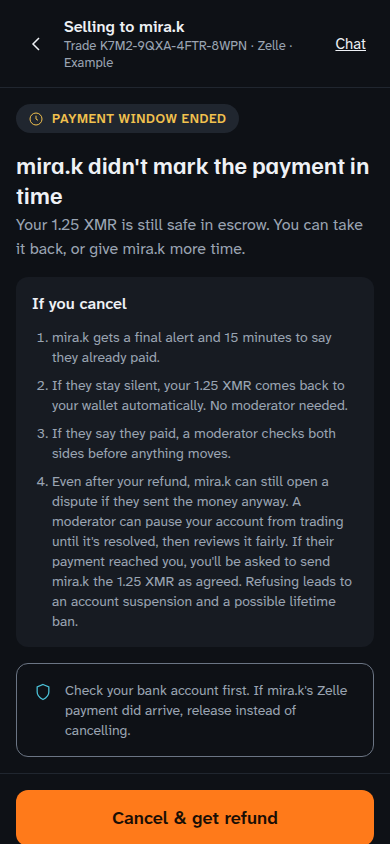
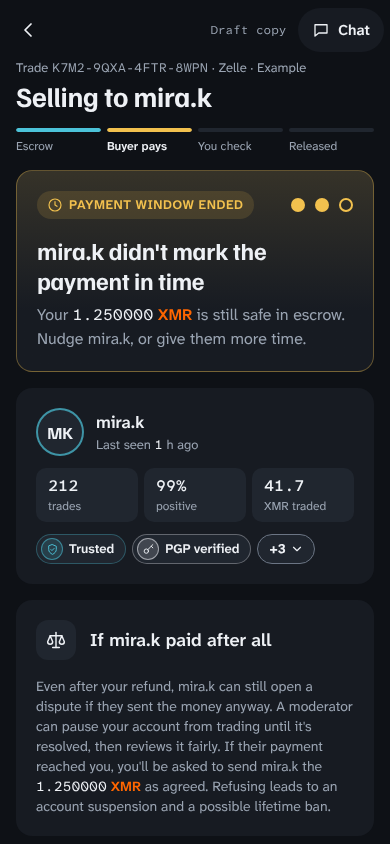
READY: SellerRefund board and parity reference refreshed for G2
design/x2f-app/SellerRefund.dc.html is the canvas board: Nudge first,
Cancel locked until 90 min and at least one nudge, nudges every 15 min
with no cap, no FinalAlert steps. "Goes straight back" left out: the
buyer's 15-minute final alert stays until the owner rules (lead, 8 Nov).
refs/SellerRefund.png re-captured with tools/parity/capture-refs.ts.
CancelRequest has no repo copy, so nothing to refresh there.

Claude-Session: https://claude.ai/code/session_01XZAz2tn1YbpoyEtNYuAJim

diff --git a/design/x2f-app/SellerRefund.dc.html b/design/x2f-app/SellerRefund.dc.html
@@ -11,66 +11,136 @@
 <link rel="stylesheet" href="https://fonts.googleapis.com/css2?family=Familjen+Grotesk:wght@600;700&amp;family=Atkinson+Hyperlegible+Next:wght@400;600&amp;family=Atkinson+Hyperlegible+Mono:wght@400;500&amp;display=swap">
 <style>
 body{margin:0}
-a{color:#ff7a1a}a:hover{color:#ffa060}
-button:focus-visible,a:focus-visible{outline:2px solid #eef1f5;outline-offset:2px}
+a{color:var(--monero-ink)}a:hover{color:var(--ink)}
+button:focus-visible,a:focus-visible{outline:2px solid var(--ink);outline-offset:2px}
+button,a,label{transition:background-color 150ms ease-out,border-color 150ms ease-out,color 150ms ease-out}
+@media (prefers-reduced-motion: reduce){*{transition:none !important;animation:none !important}}
 </style>
 </helmet>
-<div style="width: 390px; height: 844px; box-sizing: border-box; background: #0e1116; color: #eef1f5; font-family: 'Atkinson Hyperlegible Next', system-ui, sans-serif; display: flex; flex-direction: column;">
-  <header style="display: flex; align-items: center; gap: 8px; padding: 16px; border-bottom: 1px solid #20262f;">
-    <a href="#" aria-label="Back to trades" style="display: flex; width: 44px; height: 44px; align-items: center; justify-content: center; color: #eef1f5;">
-      <svg width="24" height="24" viewBox="0 0 24 24" fill="none" stroke="currentColor" stroke-width="1.5" aria-hidden="true"><path d="M15 18l-6-6 6-6"/></svg>
-    </a>
-    <div style="display: flex; flex-direction: column; flex-grow: 1;">
-      <span style="font-size: 16px; font-weight: 600;">Selling to mira.k</span>
-      <span style="font-size: 13px; color: #9aa4b2;">Trade K7M2-9QXA-4FTR-8WPN · Zelle · Example</span>
+<div style="{{rootStyle}}">
+  <div style="{{appStyle}}">
+  <header style="display: flex; flex-direction: column; padding: 8px 16px 16px;">
+    <div style="display: flex; align-items: center; justify-content: space-between; height: 44px; margin: 0 -10px;">
+      <a href="#" aria-label="Back to trades" style="display: flex; width: 44px; height: 44px; align-items: center; justify-content: center; border-radius: 12px; color: var(--ink);">
+        <svg width="24" height="24" viewBox="0 0 24 24" fill="none" stroke="currentColor" stroke-width="1.75" stroke-linecap="round" stroke-linejoin="round" aria-hidden="true"><path d="M15 18l-6-6 6-6"/></svg>
+      </a>
+      <span style="margin-left: auto; margin-right: 12px; white-space: nowrap; font-family: 'Atkinson Hyperlegible Mono', monospace; font-size: 12px; line-height: 16px; color: var(--ink-muted);">Draft copy</span>
+      <a href="#" style="display: inline-flex; align-items: center; gap: 8px; height: 44px; padding: 0 14px; border-radius: 999px; background: var(--surface); color: var(--ink); font-size: 15px; font-weight: 600; text-decoration: none;">
+        <svg width="18" height="18" viewBox="0 0 24 24" fill="none" stroke="currentColor" stroke-width="1.75" stroke-linecap="round" stroke-linejoin="round" aria-hidden="true"><path d="M4 5h16v11H9l-5 4z"/></svg>
+        Chat
+      </a>
     </div>
-    <a href="#" style="display: flex; height: 44px; align-items: center; padding: 0 8px; font-size: 15px; color: #eef1f5;">Chat</a>
+    <span style="margin-top: 8px; font-size: 13px; line-height: 16px; color: var(--ink-muted);">Trade <span style="font-family: 'Atkinson Hyperlegible Mono', monospace; white-space: nowrap;">K7M2-9QXA-4FTR-8WPN</span> · Zelle · Example</span>
+    <h1 style="margin: 4px 0 0; font-family: 'Familjen Grotesk', sans-serif; font-size: 28px; line-height: 32px; font-weight: 700; letter-spacing: -0.01em;">Selling to mira.k</h1>
   </header>
 
-  <main style="display: flex; flex-direction: column; gap: 16px; padding: 16px; flex-grow: 1;">
-    <div>
-      <span style="display: inline-flex; align-items: center; gap: 8px; padding: 6px 12px; border-radius: 999px; background: #20262f; color: #f2c14e; font-size: 13px; font-weight: 600; letter-spacing: 0.04em; text-transform: uppercase;">
-        <svg width="16" height="16" viewBox="0 0 24 24" fill="none" stroke="currentColor" stroke-width="1.5" aria-hidden="true"><circle cx="12" cy="12" r="9"/><path d="M12 7v5l3 2"/></svg>
-        Payment window ended
-      </span>
+  <ol aria-label="Trade progress" style="display: grid; grid-template-columns: repeat(4, 1fr); gap: 6px; margin: 0; padding: 0 16px 16px; list-style: none;">
+    <sc-for list="{{steps}}" as="s" hint-placeholder-count="4">
+      <li aria-current="{{s.current}}" style="display: flex; flex-direction: column; gap: 6px;">
+        <span style="display: block; height: 4px; border-radius: 999px; background: var(--surface-raised); overflow: hidden;"><span style="{{s.barStyle}}"></span></span>
+        <span style="{{s.labelStyle}}">{{s.label}}</span>
+      </li>
+    </sc-for>
+  </ol>
+
+  <main style="display: flex; flex-direction: column; gap: 16px; padding: 0 16px 24px; flex-grow: 1;">
+    <section aria-labelledby="sr-title" style="display: flex; flex-direction: column; gap: 16px; padding: 20px; border-radius: 16px; background: linear-gradient(180deg, color-mix(in srgb, var(--caution) 14%, var(--surface)) 0%, var(--surface) 140px); border: 1px solid color-mix(in srgb, var(--caution) 35%, transparent);">
+      <div style="display: flex; align-items: center; justify-content: space-between; gap: 8px;">
+        <span style="display: inline-flex; align-items: center; gap: 6px; height: 28px; padding: 0 10px; border-radius: 999px; background: color-mix(in srgb, var(--caution) 14%, transparent); color: var(--caution); font-size: 13px; line-height: 16px; font-weight: 600; letter-spacing: 0.04em; text-transform: uppercase;">
+          <svg width="16" height="16" viewBox="0 0 24 24" fill="none" stroke="currentColor" stroke-width="1.75" stroke-linecap="round" stroke-linejoin="round" aria-hidden="true"><circle cx="12" cy="12" r="9"/><path d="M12 7v5l3 2"/></svg>
+          Payment window ended
+        </span>
+        <svg style="flex-shrink: 0; color: var(--caution);" width="62" height="14" viewBox="0 0 62 14" aria-hidden="true"><circle cx="7" cy="7" r="7" fill="currentColor"/><circle cx="31" cy="7" r="7" fill="currentColor"/><circle cx="55" cy="7" r="6" fill="none" stroke="currentColor" stroke-width="2"/></svg>
+      </div>
+      <div style="display: flex; flex-direction: column; gap: 8px;">
+        <h2 id="sr-title" style="margin: 0; font-family: 'Familjen Grotesk', sans-serif; font-size: 24px; line-height: 30px; font-weight: 700; letter-spacing: -0.01em;">mira.k didn't mark the payment in time</h2>
+        <p style="margin: 0; font-size: 16px; line-height: 24px; color: var(--ink-muted);">Your <span style="font-family: 'Atkinson Hyperlegible Mono', monospace; color: var(--ink);">1.250000</span> <span style="font-weight: 600; color: var(--monero-ink);">XMR</span> is still safe in escrow. {{heroNext}}</p>
+      </div>
+    </section>
+
+    <section aria-label="Buyer" style="display: flex; flex-direction: column; padding: 20px; border-radius: 16px; background: var(--surface);"><div style="display: flex; flex-direction: column; gap: 12px;"><div style="display: flex; align-items: center; gap: 12px;"><span style="position: relative; display: flex; flex-shrink: 0; width: 48px; height: 48px; box-sizing: border-box; align-items: center; justify-content: center; border-radius: 999px; background: var(--surface-raised); border: 2px solid color-mix(in srgb, var(--escrow) 70%, transparent); font-family: 'Familjen Grotesk', sans-serif; font-size: 17px; font-weight: 700; letter-spacing: -0.01em;">MK</span><span style="display: flex; flex-direction: column; gap: 3px; min-width: 0;"><span style="display: flex; align-items: center; gap: 8px;"><span style="font-size: 17px; line-height: 22px; font-weight: 600;">mira.k</span></span><span style="font-size: 13px; line-height: 18px; color: var(--ink-muted);">Last seen <span style="font-family: 'Atkinson Hyperlegible Mono', monospace; color: var(--ink);">1</span> h ago</span></span></div><div style="display: grid; grid-template-columns: repeat(3, 1fr); gap: 6px;"><span style="display: flex; flex-direction: column; gap: 2px; padding: 8px 12px; border-radius: 10px; background: var(--surface-raised); min-width: 0;"><span style="font-family: 'Atkinson Hyperlegible Mono', monospace; font-size: 16px; line-height: 20px; font-weight: 500;">212</span><span style="font-size: 12px; line-height: 16px; color: var(--ink-muted);">trades</span></span><span style="display: flex; flex-direction: column; gap: 2px; padding: 8px 12px; border-radius: 10px; background: var(--surface-raised); min-width: 0;"><span style="font-family: 'Atkinson Hyperlegible Mono', monospace; font-size: 16px; line-height: 20px; font-weight: 500;">99%</span><span style="font-size: 12px; line-height: 16px; color: var(--ink-muted);">positive</span></span><span style="display: flex; flex-direction: column; gap: 2px; padding: 8px 12px; border-radius: 10px; background: var(--surface-raised); min-width: 0;"><span style="font-family: 'Atkinson Hyperlegible Mono', monospace; font-size: 16px; line-height: 20px; font-weight: 500;">41.7</span><span style="font-size: 12px; line-height: 16px; color: var(--ink-muted);">XMR traded</span></span></div><div style="display: flex; flex-wrap: wrap; gap: 6px; align-items: center;"><button type="button" aria-haspopup="dialog" aria-label="Trusted badge: 200+ trades and 98%+ positive." style="display: inline-flex; align-items: center; height: 44px; margin: -7px 0; padding: 0; border: 0; background: transparent; color: inherit; font: inherit; cursor: pointer;"><span style="display: inline-flex; align-items: center; gap: 6px; height: 30px; padding: 0 11px 0 4px; box-sizing: border-box; border-radius: 999px; background: var(--surface-raised); border: 1px solid color-mix(in srgb, var(--escrow) 32%, transparent); font-size: 13px; line-height: 16px; font-weight: 600; color: var(--ink); white-space: nowrap;"><span aria-hidden="true" style="display: flex; flex-shrink: 0; width: 22px; height: 22px; box-sizing: border-box; align-items: center; justify-content: center; border-radius: 999px; background: color-mix(in srgb, var(--escrow) 16%, var(--surface-raised)); border: 1px solid color-mix(in srgb, var(--escrow) 55%, transparent); color: var(--escrow);"><svg width="13" height="13" viewBox="0 0 24 24" fill="none" stroke="currentColor" stroke-width="1.75" stroke-linecap="round" stroke-linejoin="round" aria-hidden="true"><path d="M12 3l7 3v6c0 4-3 7-7 9-4-2-7-5-7-9V6z"/><path d="M9 12l2 2 4-4"/></svg></span>Trusted</span></button><button type="button" aria-haspopup="dialog" aria-label="PGP verified badge: Logs in with a verified PGP key." style="display: inline-flex; align-items: center; height: 44px; margin: -7px 0; padding: 0; border: 0; background: transparent; color: inherit; font: inherit; cursor: pointer;"><span style="display: inline-flex; align-items: center; gap: 6px; height: 30px; padding: 0 11px 0 4px; box-sizing: border-box; border-radius: 999px; background: var(--surface-raised); border: 1px solid color-mix(in srgb, var(--ink) 32%, transparent); font-size: 13px; line-height: 16px; font-weight: 600; color: var(--ink); white-space: nowrap;"><span aria-hidden="true" style="display: flex; flex-shrink: 0; width: 22px; height: 22px; box-sizing: border-box; align-items: center; justify-content: center; border-radius: 999px; background: color-mix(in srgb, var(--ink) 16%, var(--surface-raised)); border: 1px solid color-mix(in srgb, var(--ink) 55%, transparent); color: var(--ink);"><svg width="13" height="13" viewBox="0 0 24 24" fill="none" stroke="currentColor" stroke-width="1.75" stroke-linecap="round" stroke-linejoin="round" aria-hidden="true"><circle cx="8" cy="15" r="4"/><path d="M11 12l9-9"/><path d="M17 6l3 3"/></svg></span>PGP verified</span></button><button type="button" aria-haspopup="dialog" aria-expanded="false" aria-label="3 more badges" style="display: inline-flex; align-items: center; height: 44px; margin: -7px 0; padding: 0; border: 0; background: transparent; color: inherit; font: inherit; cursor: pointer;"><span style="display: inline-flex; align-items: center; gap: 4px; height: 30px; padding: 0 10px 0 11px; box-sizing: border-box; border-radius: 999px; border: 1px solid var(--line); background: var(--surface-raised); color: var(--ink); font-size: 13px; line-height: 16px; font-weight: 600;"><span style="font-family: 'Atkinson Hyperlegible Mono', monospace;">+3</span><svg width="14" height="14" viewBox="0 0 24 24" fill="none" stroke="currentColor" stroke-width="2" stroke-linecap="round" stroke-linejoin="round" aria-hidden="true"><path d="M6 9l6 6 6-6"/></svg></span></button></div></div></section>
+
+    <section aria-labelledby="sr-how" style="display: flex; flex-direction: column; gap: 16px; padding: 20px; border-radius: 16px; background: var(--surface);">
+      <div style="display: flex; align-items: center; gap: 14px;"><span style="display: flex; flex-shrink: 0; width: 40px; height: 40px; align-items: center; justify-content: center; border-radius: 12px; background: var(--surface-raised); color: var(--ink);"><svg width="20" height="20" viewBox="0 0 24 24" fill="none" stroke="currentColor" stroke-width="1.75" stroke-linecap="round" stroke-linejoin="round" aria-hidden="true"><path d="M12 3v18"/><path d="M5 7h14"/><path d="M5 7l-3 7a3 3 0 006 0z"/><path d="M19 7l-3 7a3 3 0 006 0z"/><path d="M8 21h8"/></svg></span><h2 id="sr-how" style="margin: 0; font-size: 18px; line-height: 24px; font-weight: 600;">If mira.k paid after all</h2></div>
+      <p style="margin: 0; font-size: 14px; line-height: 20px; color: var(--ink-muted);">Even after your refund, mira.k can still open a dispute if they sent the money anyway. A moderator can pause your account from trading until it's resolved, then reviews it fairly. If their payment reached you, you'll be asked to send mira.k the <span style="font-family: 'Atkinson Hyperlegible Mono', monospace; color: var(--ink);">1.250000</span> <span style="font-weight: 600; color: var(--monero-ink);">XMR</span> as agreed. Refusing leads to an account suspension and a possible lifetime ban.</p>
+    </section>
+
+    <div style="display: flex; gap: 10px; align-items: flex-start; padding: 12px 14px; border-radius: 12px; background: color-mix(in srgb, var(--escrow) 10%, var(--surface)); border: 1px solid color-mix(in srgb, var(--escrow) 30%, transparent);">
+      <svg style="flex-shrink: 0; margin-top: 1px; color: var(--escrow);" width="18" height="18" viewBox="0 0 24 24" fill="none" stroke="currentColor" stroke-width="1.75" stroke-linecap="round" stroke-linejoin="round" aria-hidden="true"><path d="M12 3l7 3v6c0 4-3 7-7 9-4-2-7-5-7-9V6z"/></svg>
+      <p style="margin: 0; font-size: 14px; line-height: 20px; color: var(--ink);">Check your bank account first. If mira.k's Zelle payment did arrive, release instead of cancelling.</p>
     </div>
-
-    <section style="display: flex; flex-direction: column; gap: 4px;">
-      <h1 style="margin: 0; font-family: 'Familjen Grotesk', sans-serif; font-size: 24px; line-height: 30px; font-weight: 600;">mira.k didn't mark the payment in time</h1>
-      <p style="margin: 0; font-size: 16px; line-height: 24px; color: #9aa4b2;">Your 1.25 XMR is still safe in escrow. You can take it back, or give mira.k more time.</p>
-    </section>
-
-    <section aria-label="How the refund works" style="display: flex; flex-direction: column; gap: 12px; padding: 16px; border-radius: 12px; background: #171b22;">
-      <h2 style="margin: 0; font-size: 16px; line-height: 22px; font-weight: 600;">If you cancel</h2>
-      <ol style="margin: 0; padding-left: 20px; display: flex; flex-direction: column; gap: 8px; font-size: 14px; line-height: 20px; color: #9aa4b2;">
-        <li>mira.k gets a final alert and 15 minutes to say they already paid.</li>
-        <li>If they stay silent, your 1.25 XMR comes back to your wallet automatically. No moderator needed.</li>
-        <li>If they say they paid, a moderator checks both sides before anything moves.</li>
-        <li>Even after your refund, mira.k can still open a dispute if they sent the money anyway. A moderator can pause your account from trading until it's resolved, then reviews it fairly. If their payment reached you, you'll be asked to send mira.k the 1.25 XMR as agreed. Refusing leads to an account suspension and a possible lifetime ban.</li>
-      </ol>
-    </section>
-
-    <section style="display: flex; gap: 12px; align-items: flex-start; padding: 16px; border-radius: 12px; border: 1px solid #6b7584;">
-      <svg width="20" height="20" viewBox="0 0 24 24" fill="none" stroke="#4cc3d9" stroke-width="1.5" aria-hidden="true" style="flex-shrink: 0; margin-top: 2px;"><path d="M12 3l7 3v6c0 4-3 7-7 9-4-2-7-5-7-9V6z"/></svg>
-      <p style="margin: 0; font-size: 14px; line-height: 20px; color: #9aa4b2;">Check your bank account first. If mira.k's Zelle payment did arrive, release instead of cancelling.</p>
-    </section>
   </main>
 
-  <footer style="display: flex; flex-direction: column; gap: 8px; padding: 16px; border-top: 1px solid #20262f;">
-    <button type="button" style="height: 56px; border: 0; border-radius: 12px; background: #ff7a1a; color: #1a0e05; font-family: inherit; font-size: 18px; font-weight: 600; cursor: pointer;">Cancel &amp; get refund</button>
-    <div style="display: flex; gap: 8px;">
-      <button type="button" style="flex-grow: 1; height: 48px; border: 1px solid #6b7584; border-radius: 12px; background: transparent; color: #eef1f5; font-family: inherit; font-size: 16px; cursor: pointer;">Give 30 more min</button>
-      <button type="button" style="flex-grow: 1; display: flex; align-items: center; justify-content: center; gap: 8px; height: 48px; border: 1px solid #6b7584; border-radius: 12px; background: transparent; color: #f2c14e; font-family: inherit; font-size: 16px; cursor: pointer;">
-        <svg width="20" height="20" viewBox="0 0 24 24" fill="none" stroke="currentColor" stroke-width="1.5" aria-hidden="true"><path d="M6 8a6 6 0 0112 0c0 7 3 9 3 9H3s3-2 3-9"/><path d="M10.3 21a1.94 1.94 0 003.4 0"/><path d="M2 4l2 2"/><path d="M22 4l-2 2"/></svg>
+  <footer style="display: flex; flex-direction: column; gap: 8px; padding: 16px 16px 8px; border-top: 1px solid var(--surface-raised); background: var(--ground);">
+    <sc-if value="{{locked}}" hint-placeholder-val="{{true}}">
+      <button type="button" style="display: flex; align-items: center; justify-content: center; gap: 8px; height: 56px; border: 0; border-radius: 12px; background: var(--monero); color: var(--on-monero); font-family: inherit; font-size: 18px; font-weight: 600; cursor: pointer;">
+        <svg style="color: currentColor;" width="20" height="20" viewBox="0 0 24 24" fill="none" stroke="currentColor" stroke-width="1.75" stroke-linecap="round" stroke-linejoin="round" aria-hidden="true"><path d="M6 8a6 6 0 0112 0c0 7 3 9 3 9H3s3-2 3-9"/><path d="M10.3 21a1.94 1.94 0 003.4 0"/><path d="M2 4l2 2"/><path d="M22 4l-2 2"/></svg>
         Nudge mira.k
       </button>
-    </div>
+      <button type="button" style="display: flex; align-items: center; justify-content: center; gap: 8px; height: 48px; border: 1px solid var(--line); border-radius: 12px; background: transparent; color: var(--ink); font-family: inherit; font-size: 16px; font-weight: 600; cursor: pointer;">Give <span style="font-family: 'Atkinson Hyperlegible Mono', monospace; font-weight: 500;">30</span> more min</button>
+      <p style="margin: 0; padding: 0 8px 8px; font-size: 13px; line-height: 18px; color: var(--ink-muted); text-align: center;">No word from mira.k? After <span style="font-family: 'Atkinson Hyperlegible Mono', monospace; color: var(--ink);">90</span> min and at least one nudge, you can cancel and get your <span style="font-family: 'Atkinson Hyperlegible Mono', monospace; color: var(--ink);">1.250000</span> <span style="font-weight: 600; color: var(--monero-ink);">XMR</span> back.</p>
+    </sc-if>
+    <sc-if value="{{available}}" hint-placeholder-val="{{false}}">
+      <button type="button" style="display: flex; align-items: center; justify-content: center; gap: 8px; height: 56px; border: 0; border-radius: 12px; background: var(--monero); color: var(--on-monero); font-family: inherit; font-size: 18px; font-weight: 600; cursor: pointer;">Cancel and get refund</button>
+      <div style="display: flex; gap: 8px;">
+        <button type="button" style="flex: 1 1 0; display: flex; align-items: center; justify-content: center; gap: 8px; height: 48px; border: 1px solid var(--line); border-radius: 12px; background: transparent; color: var(--ink); font-family: inherit; font-size: 16px; font-weight: 600; cursor: pointer;">Give <span style="font-family: 'Atkinson Hyperlegible Mono', monospace; font-weight: 500;">30</span> more min</button>
+        <button type="button" style="flex: 1 1 0; display: flex; align-items: center; justify-content: center; gap: 8px; height: 48px; border: 1px solid var(--line); border-radius: 12px; background: transparent; color: var(--ink); font-family: inherit; font-size: 16px; font-weight: 600; cursor: pointer;">
+          <svg style="color: var(--caution);" width="20" height="20" viewBox="0 0 24 24" fill="none" stroke="currentColor" stroke-width="1.75" stroke-linecap="round" stroke-linejoin="round" aria-hidden="true"><path d="M6 8a6 6 0 0112 0c0 7 3 9 3 9H3s3-2 3-9"/><path d="M10.3 21a1.94 1.94 0 003.4 0"/><path d="M2 4l2 2"/><path d="M22 4l-2 2"/></svg>
+          Nudge again
+        </button>
+      </div>
+      <p style="margin: 0; padding: 0 8px 8px; font-size: 13px; line-height: 18px; color: var(--ink-muted); text-align: center;">You can nudge again every <span style="font-family: 'Atkinson Hyperlegible Mono', monospace; color: var(--ink);">15</span> min, as often as you need. You can cancel now and get your <span style="font-family: 'Atkinson Hyperlegible Mono', monospace; color: var(--ink);">1.250000</span> <span style="font-weight: 600; color: var(--monero-ink);">XMR</span> back.</p>
+    </sc-if>
   </footer>
+  </div>
+
+  <section aria-label="Design notes" style="flex-shrink: 0; display: flex; flex-direction: column; gap: 12px; padding: 24px 16px; border-top: 1px solid var(--line);">
+    <h2 style="margin: 0; font-family: 'Atkinson Hyperlegible Mono', monospace; font-size: 12px; line-height: 16px; font-weight: 500; letter-spacing: 0.04em; text-transform: uppercase; color: var(--ink-muted);">Design notes</h2>
+    <p style="margin: 0; font-size: 13px; line-height: 18px; color: var(--ink-muted);">The seller&#39;s screen when mira.k hasn&#39;t marked the payment. Until Cancel unlocks, Nudge is the one orange action; once it unlocks, Cancel takes over. Preview both with the cancel tweak. Showing: {{cancelName}}</p>
+    <aside aria-label="Decided by the owner: who can cancel, and when" style="display: flex; flex-direction: column; gap: 6px; padding: 10px 12px; border-radius: 6px; border: 1px solid var(--line); font-size: 13px; line-height: 18px; color: var(--ink);">
+      <span style="font-family: 'Atkinson Hyperlegible Mono', monospace; font-size: 12px; line-height: 16px; font-weight: 500; letter-spacing: 0.04em; text-transform: uppercase; color: var(--ink-muted);">Decided · owner, 7 Nov (G2)</span>
+      <span style="font-weight: 600;">Who can cancel, and when</span>
+      <ul style="margin: 0; padding-left: 18px; display: flex; flex-direction: column; gap: 2px;">
+        <li>Before escrow is funded: either side can cancel at once, no reason needed.</li>
+        <li>Seller, after escrow, if the buyer hasn&#39;t been in touch: after <span style="font-family: 'Atkinson Hyperlegible Mono', monospace;">90</span> min and at least one nudge, a Cancel button appears and the escrowed XMR goes back to the seller&#39;s wallet.</li>
+        <li>Buyer, after escrow: can cancel. That triggers a full refund to the seller, and the trade stays open until the refund has all <span style="font-family: 'Atkinson Hyperlegible Mono', monospace;">10</span> confirmations.</li>
+      </ul>
+      <span style="color: var(--ink-muted);">This board is rule (b). Structure changed: Cancel was the primary as soon as the payment window ended, and cancelling first gave mira.k a final alert and <span style="font-family: 'Atkinson Hyperlegible Mono', monospace;">15</span> min to answer, with a moderator check if they said they paid. Now Cancel is locked until at least one nudge. Open (lead, 8 Nov): the buyer&#39;s 15-minute final alert after the seller cancels stays until the owner rules, so the board does not say the XMR goes straight back. The old steps 2 and 3 are gone; the late-dispute step stays as &quot;If mira.k paid after all&quot;. Buyer cancel (c) is on CancelRequest.</span>
+    </aside>
+  </section>
 </div>
 </x-dc>
-<script type="text/x-dc" data-dc-script data-props='{"$preview":{"width":390,"height":844}}'>
+<script type="text/x-dc" data-dc-script data-props='{"theme":{"editor":"enum","options":["night","day"],"default":"night"},"cancel":{"editor":"enum","options":["locked","available"],"default":"locked"},"$preview":{"width":390,"height":1732}}'>
 class Component extends DCLogic {
-  renderVals() { return {}; }
+  renderVals() {
+    const THEMES = {
+      night: '--ground:#0e1116;--surface:#171b22;--surface-raised:#20262f;--line:#6b7584;--ink:#eef1f5;--ink-muted:#9aa4b2;--monero:#ff6600;--monero-ink:#ff6600;--on-monero:#1a0e05;--escrow:#4cc3d9;--caution:#f2c14e;--danger:#ff6b8a;--scrim:rgba(0,0,0,0.6);--mod:#b69cff;--team:#7aa2ff;',
+      day: '--ground:#f5f6f8;--surface:#ffffff;--surface-raised:#eceef2;--line:#7a8494;--ink:#12161c;--ink-muted:#566070;--monero:#ff6600;--monero-ink:#b84a00;--on-monero:#1a0e05;--escrow:#0b7285;--caution:#8a5a00;--danger:#c2255c;--scrim:rgba(18,22,28,0.45);--mod:#6741d9;--team:#2f5bd3;'
+    };
+    const theme = this.props.theme === 'day' ? 'day' : 'night';
+    const available = this.props.cancel === 'available';
+    // Measured (night, fonts loaded): app screen per cancel state, plus the design notes under it.
+    const APP_H = available ? 1175 : 1151;
+    const NOTES_H = 581;
+    const H = APP_H + NOTES_H;
+    const appStyle = 'position: relative; flex-shrink: 0; height: ' + APP_H + 'px; display: flex; flex-direction: column;';
+    const rootStyle = THEMES[theme] + 'position: relative; overflow: hidden; width: 390px; height: ' + H + "px; box-sizing: border-box; background: var(--ground); color: var(--ink); font-family: 'Atkinson Hyperlegible Next', system-ui, sans-serif; display: flex; flex-direction: column;";
+    // Stepper (seller labels): "Buyer pays" is current and its time has run out (bar full, caution).
+    const STEP_LABELS = ['Escrow', 'Buyer pays', 'You check', 'Released'];
+    const current = 1;
+    const steps = STEP_LABELS.map((label, i) => ({
+      label,
+      current: i === current ? 'step' : 'false',
+      barStyle: 'display: block; height: 100%; border-radius: 999px; ' + (i < current ? 'width: 100%; background: var(--escrow);' : i === current ? 'width: 100%; background: var(--caution);' : 'width: 0;'),
+      labelStyle: 'font-size: 12px; line-height: 16px; ' + (i === current ? 'font-weight: 600; color: var(--ink);' : 'color: var(--ink-muted);')
+    }));
+    return { rootStyle, appStyle, steps,
+      locked: !available,
+      available,
+      heroNext: available ? 'You can take it back, or give mira.k more time.' : 'Nudge mira.k, or give them more time.',
+      cancelName: available ? 'available (90 min and at least one nudge)' : 'locked (no nudge yet)'
+    };
+  }
 }
 </script>
 </body>
